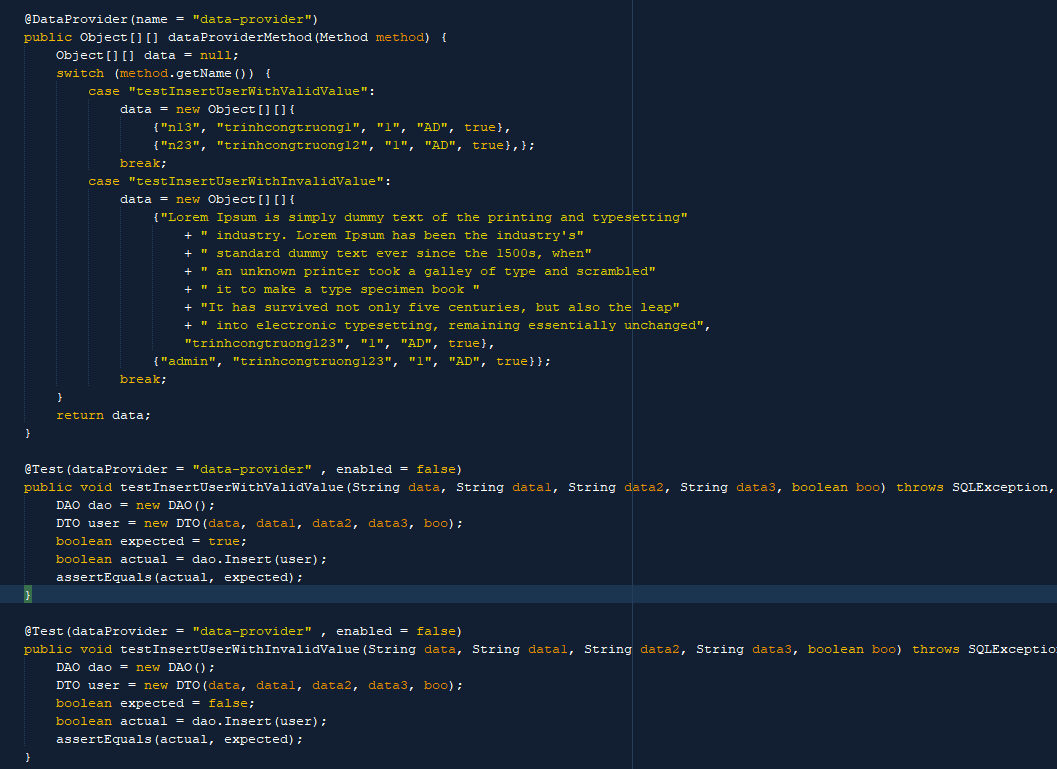
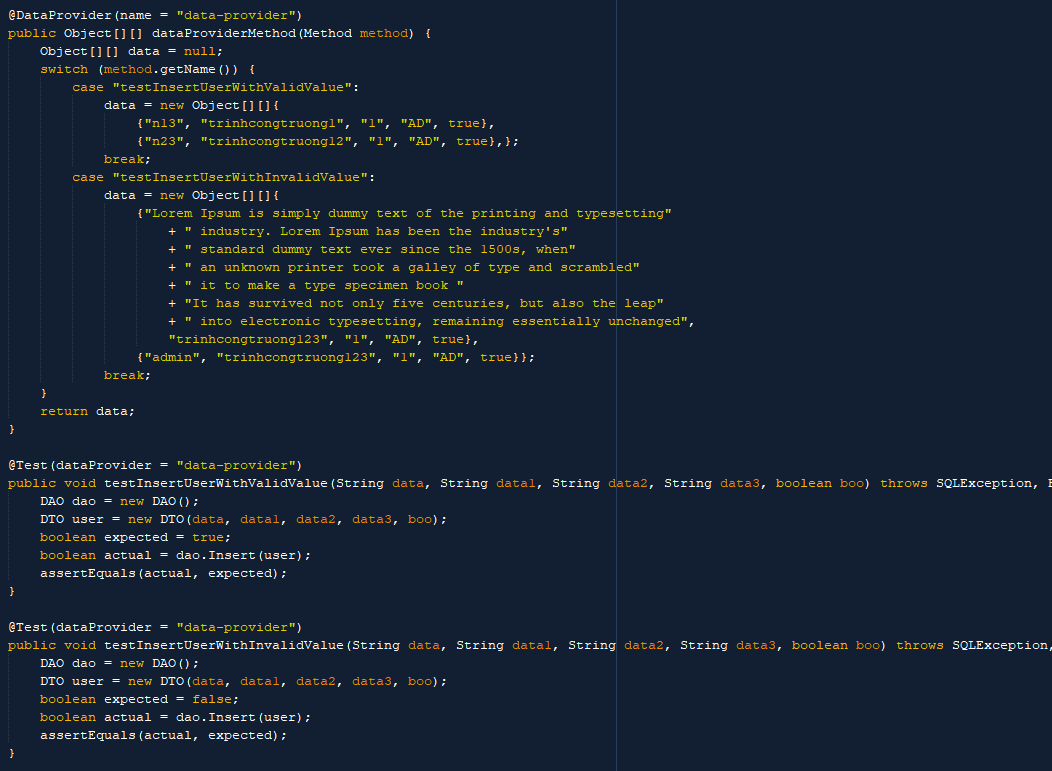
fix image

diff --git a/test/user/DAONGTest.java b/test/user/DAONGTest.java
@@ -42,7 +42,7 @@ public class DAONGTest {
         return data;
     }
 
-    @Test(dataProvider = "data-provider" , enabled = false)
+    @Test(dataProvider = "data-provider")
     public void testInsertUserWithValidValue(String data, String data1, String data2, String data3, boolean boo) throws SQLException, Exception {
         DAO dao = new DAO();
         DTO user = new DTO(data, data1, data2, data3, boo);
@@ -51,7 +51,7 @@ public class DAONGTest {
         assertEquals(actual, expected);
     }
 
-    @Test(dataProvider = "data-provider" , enabled = false)
+    @Test(dataProvider = "data-provider")
     public void testInsertUserWithInvalidValue(String data, String data1, String data2, String data3, boolean boo) throws SQLException, Exception {
         DAO dao = new DAO();
         DTO user = new DTO(data, data1, data2, data3, boo);
